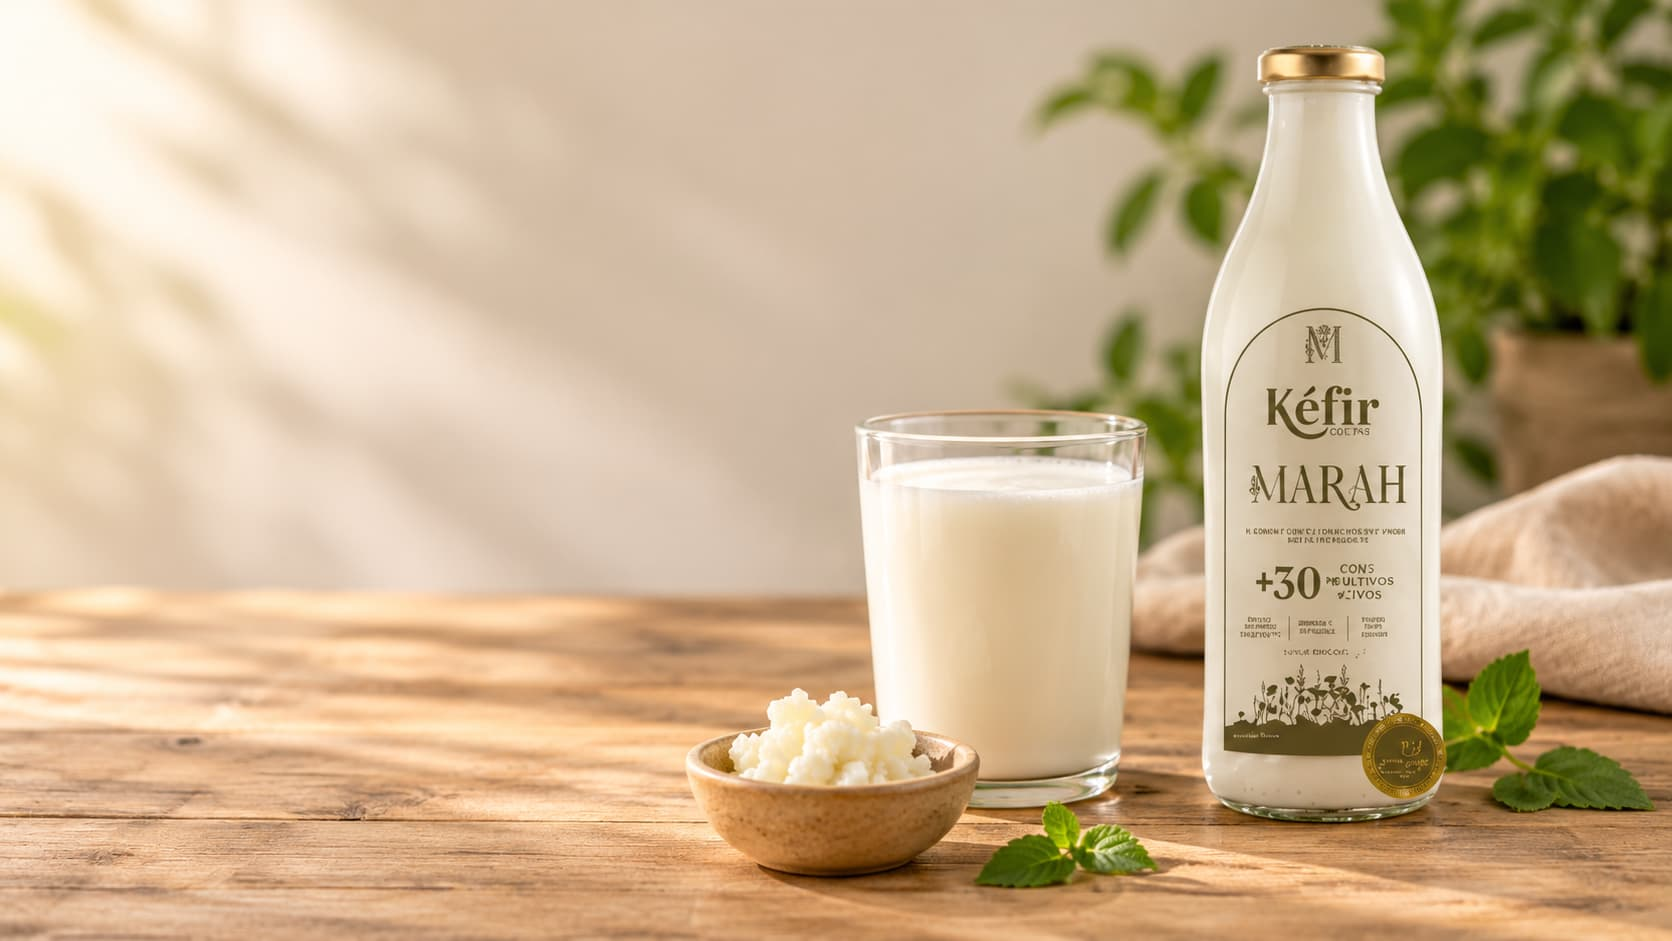
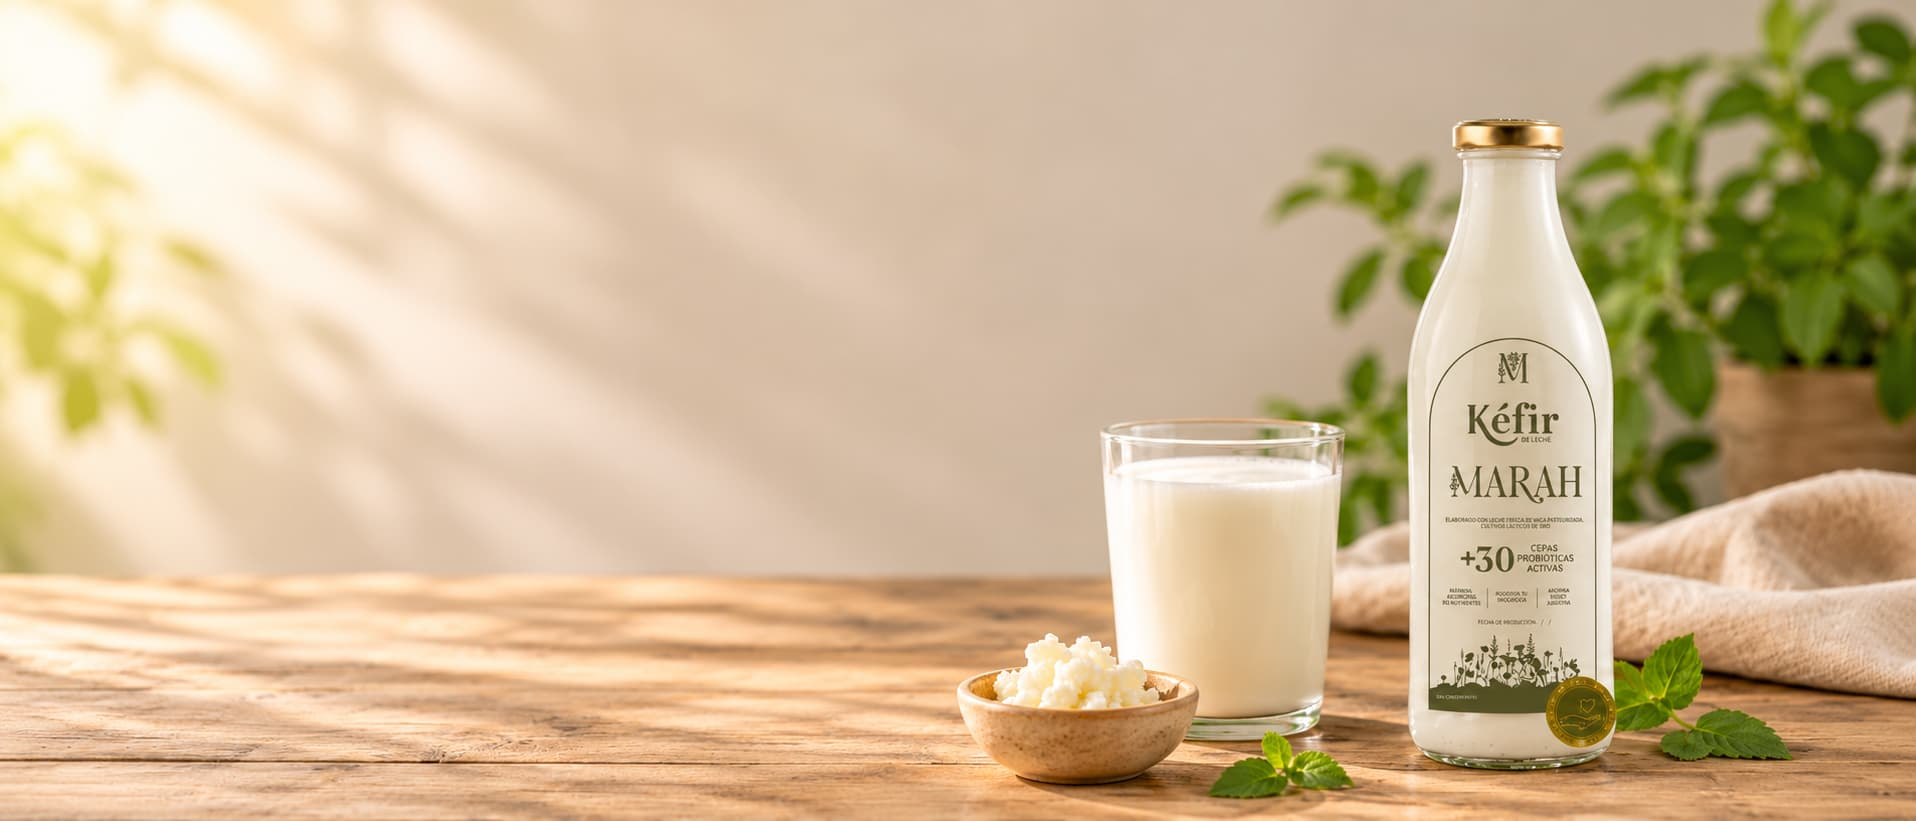
style: nueva imagen del hero con etiqueta corregida y más margen

diff --git a/public/index.html b/public/index.html
@@ -35,11 +35,13 @@
   <main>
 
     <!-- HERO: propuesta de valor y llamadas a la acción -->
-    <section id="inicio" aria-labelledby="titulo-hero" class="relative isolate overflow-hidden bg-brand-900 text-white">
-      <img src="img/hero.jpg" alt="" class="absolute inset-0 -z-20 h-full w-full object-cover">
+    <section id="inicio" aria-labelledby="titulo-hero"
+      class="relative isolate overflow-hidden bg-brand-900 text-white md:flex md:aspect-video md:items-center">
+      <img src="img/hero.jpg" alt=""
+        class="absolute inset-0 -z-20 h-full w-full object-cover object-right md:object-center">
       <div class="absolute inset-0 -z-10 bg-gradient-to-r from-brand-900/90 via-brand-900/60 to-transparent"
         aria-hidden="true"></div>
-      <div class="mx-auto grid max-w-6xl items-center gap-8 px-4 py-16 md:grid-cols-2 md:py-24">
+      <div class="mx-auto grid w-full max-w-6xl items-center gap-8 px-4 py-16 md:grid-cols-2 md:py-16">
         <div>
           <p
             class="mb-3 inline-flex items-center gap-2 rounded-full bg-white/15 px-3 py-1 text-xs font-semibold uppercase tracking-wide">
@@ -54,7 +56,7 @@
             <a href="#catalogo" class="btn-outline">Ver productos</a>
           </div>
         </div>
-        
+
       </div>
     </section>
 

diff --git a/public/css/output.css b/public/css/output.css
@@ -1132,6 +1132,11 @@ video {
      object-fit: cover;
 }
 
+.object-right {
+  -o-object-position: right;
+     object-position: right;
+}
+
 .p-2 {
   padding: 0.5rem;
 }
@@ -1471,6 +1476,10 @@ video {
     display: flex;
   }
 
+  .md\:aspect-video {
+    aspect-ratio: 16 / 9;
+  }
+
   .md\:grid-cols-2 {
     grid-template-columns: repeat(2, minmax(0, 1fr));
   }
@@ -1491,9 +1500,34 @@ video {
     justify-content: space-between;
   }
 
+  .md\:object-\[center_35\%\] {
+    -o-object-position: center 35%;
+       object-position: center 35%;
+  }
+
+  .md\:object-center {
+    -o-object-position: center;
+       object-position: center;
+  }
+
   .md\:py-24 {
     padding-top: 6rem;
     padding-bottom: 6rem;
+  }
+
+  .md\:py-40 {
+    padding-top: 10rem;
+    padding-bottom: 10rem;
+  }
+
+  .md\:py-20 {
+    padding-top: 5rem;
+    padding-bottom: 5rem;
+  }
+
+  .md\:py-16 {
+    padding-top: 4rem;
+    padding-bottom: 4rem;
   }
 
   .md\:text-3xl {
